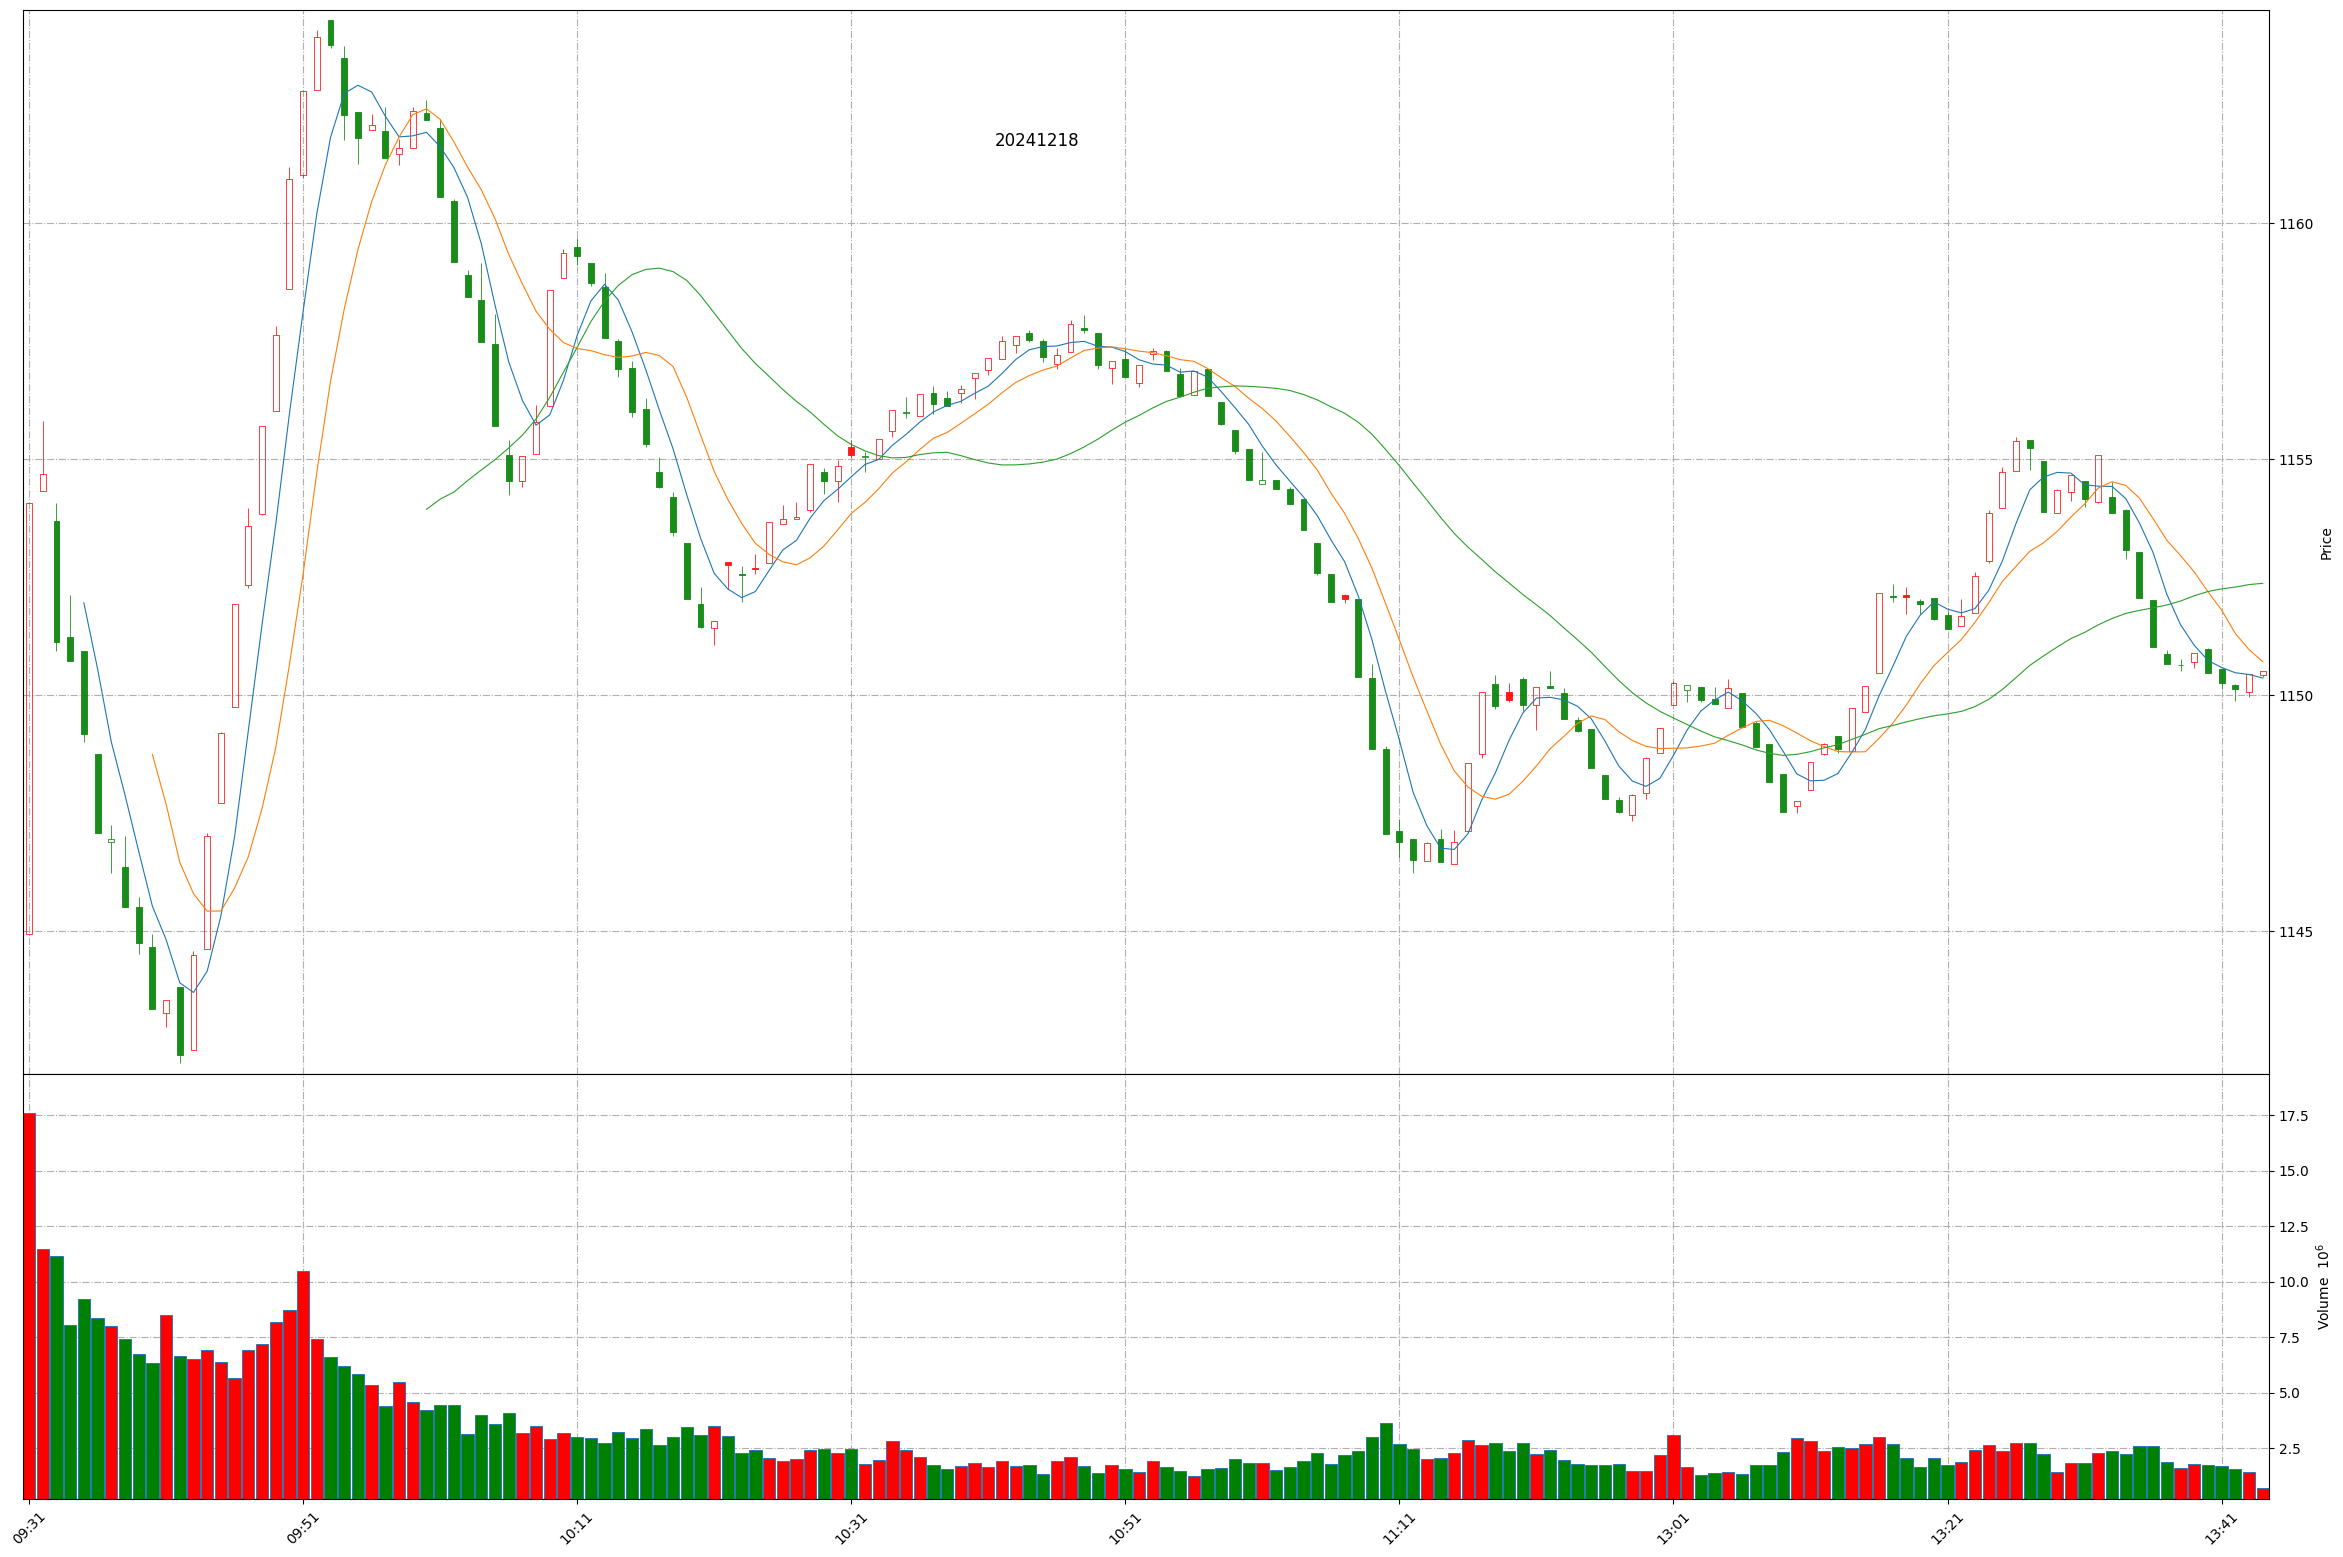
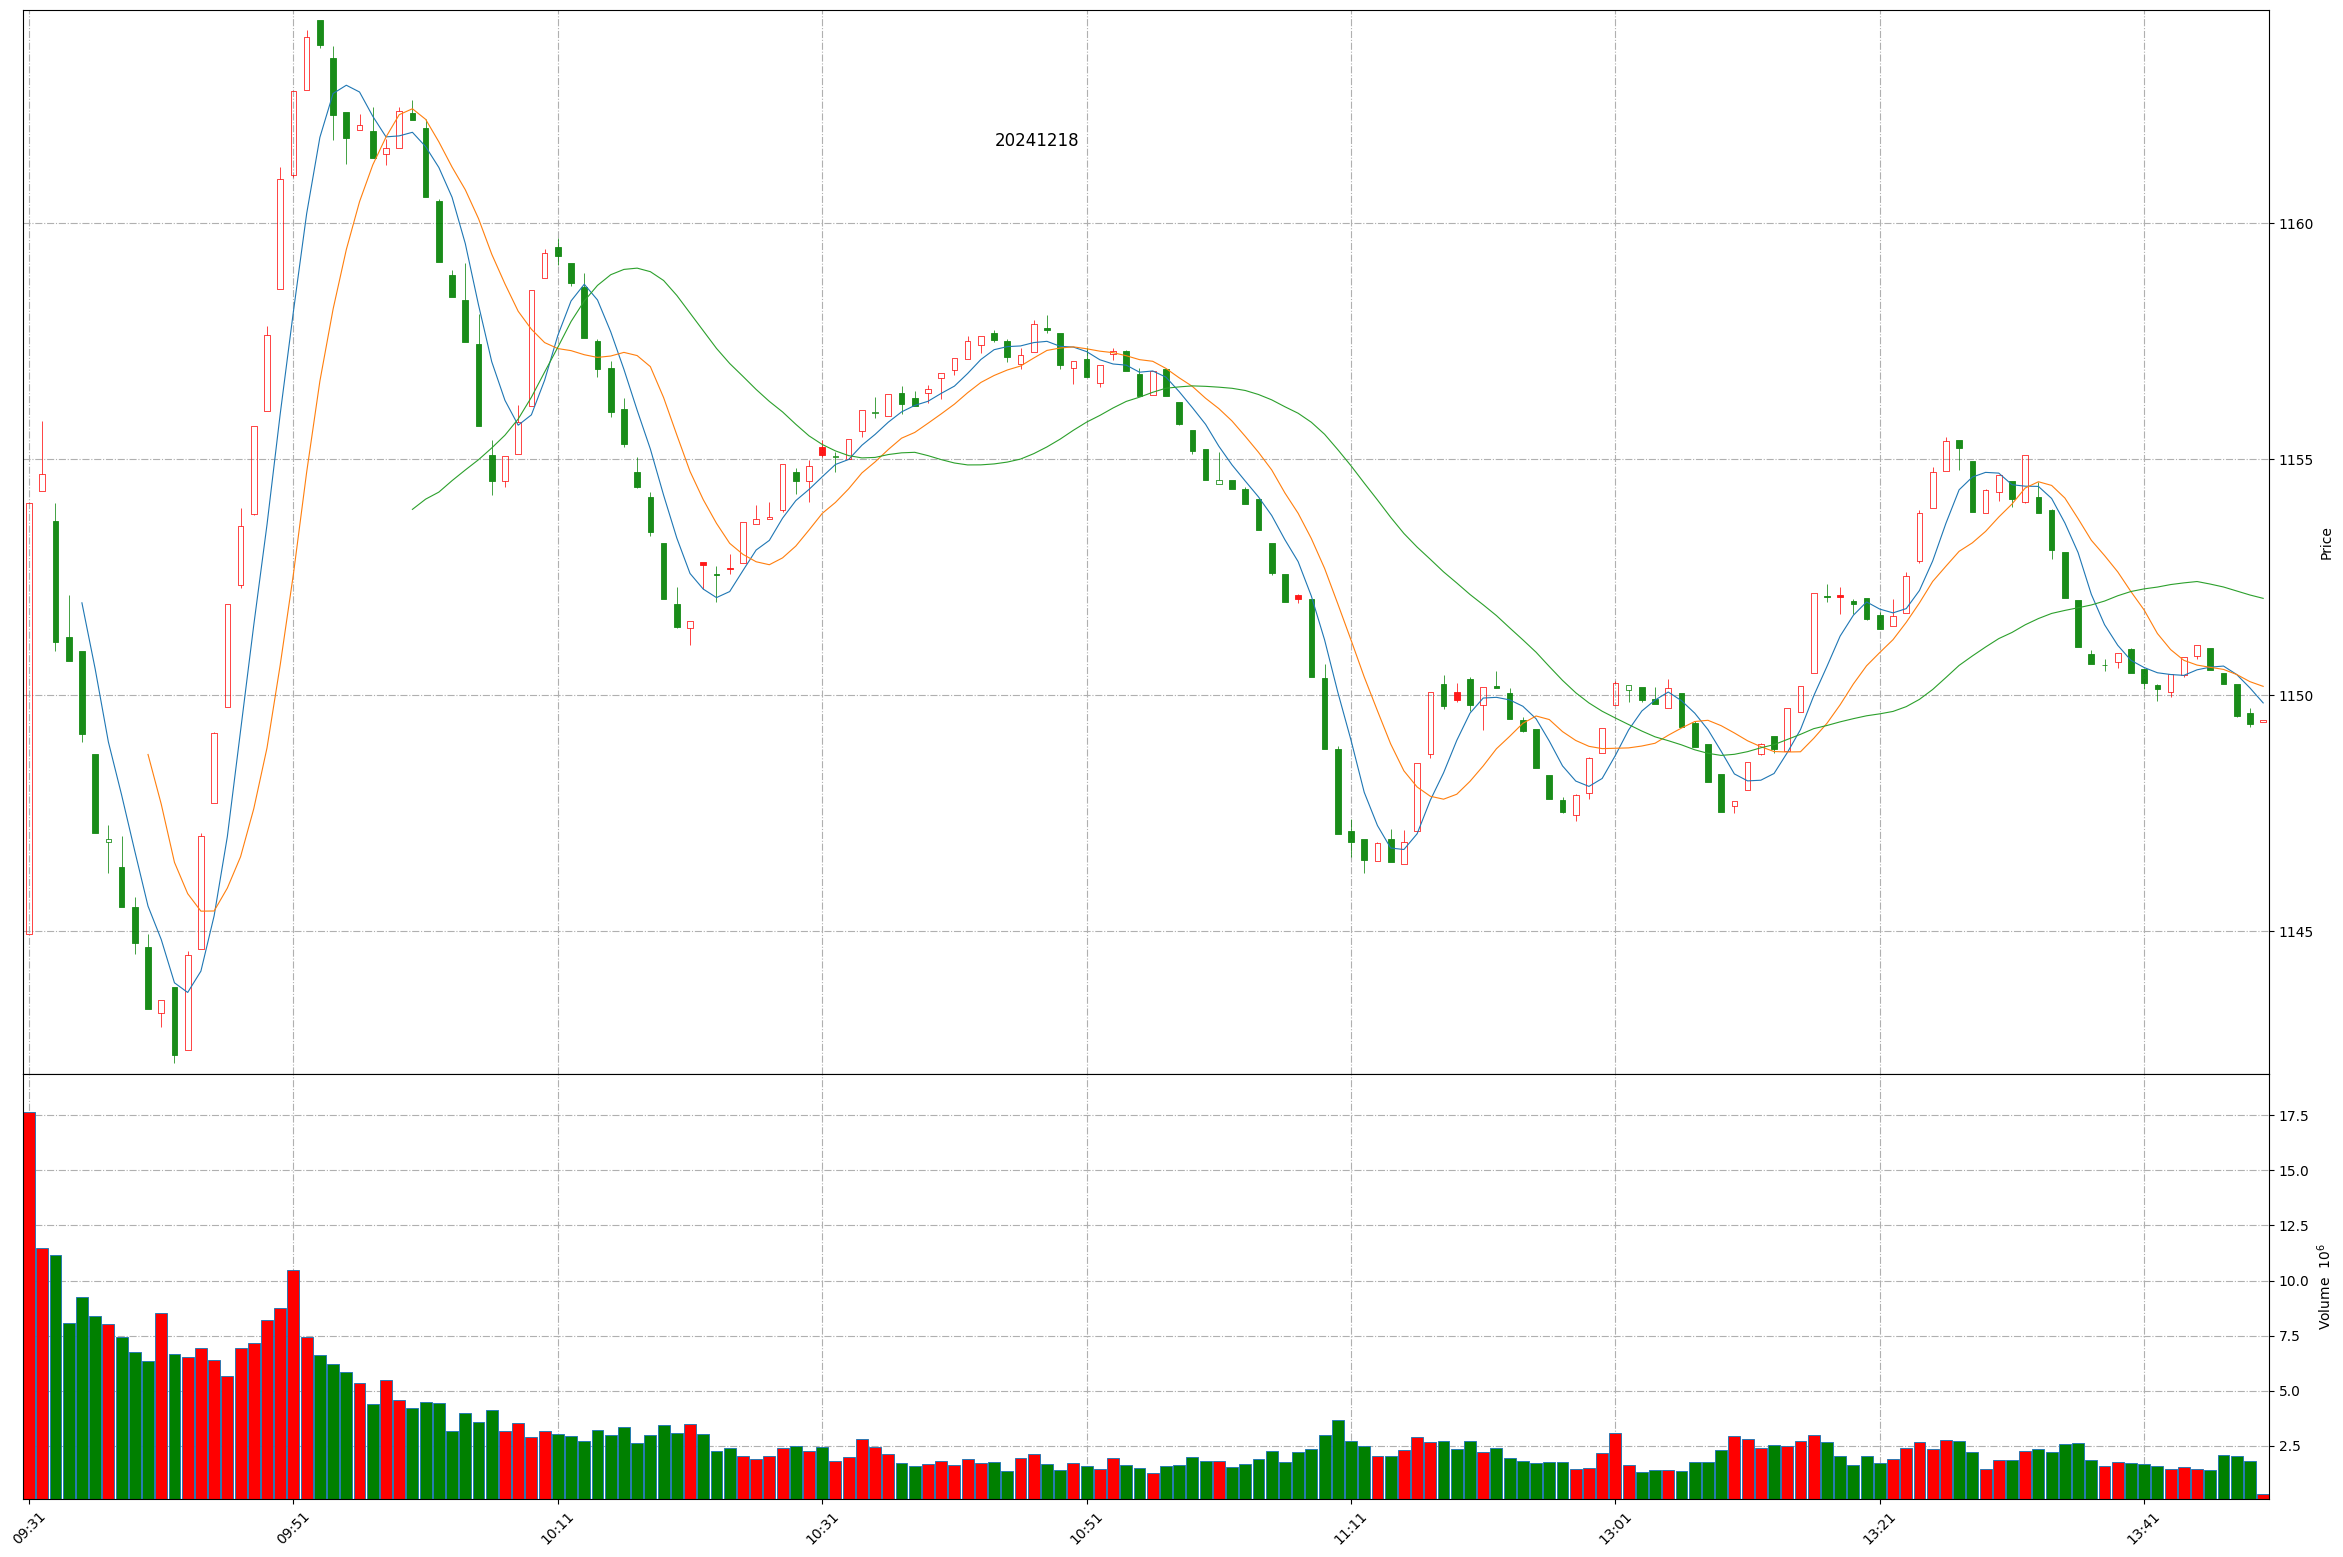
Github action update at 2024-12-18 13:49:20.

diff --git a/README.md b/README.md
@@ -1,11 +1,11 @@
 
 # Daily-A-share-market-quotes 每日 A 股指数（5min 更新）- 20241218
 
-### 上证指数 20241218 13:43
+### 上证指数 20241218 13:49
 ![](./fig/2024/12/20241218-sh000001.png)
 
-### 深证成指 20241218 13:43
+### 深证成指 20241218 13:49
 ![](./fig/2024/12/20241218-sz399001.png)
 
-### 北证50 20241218 13:43
+### 北证50 20241218 13:49
 ![](./fig/2024/12/20241218-bj899050.png)
